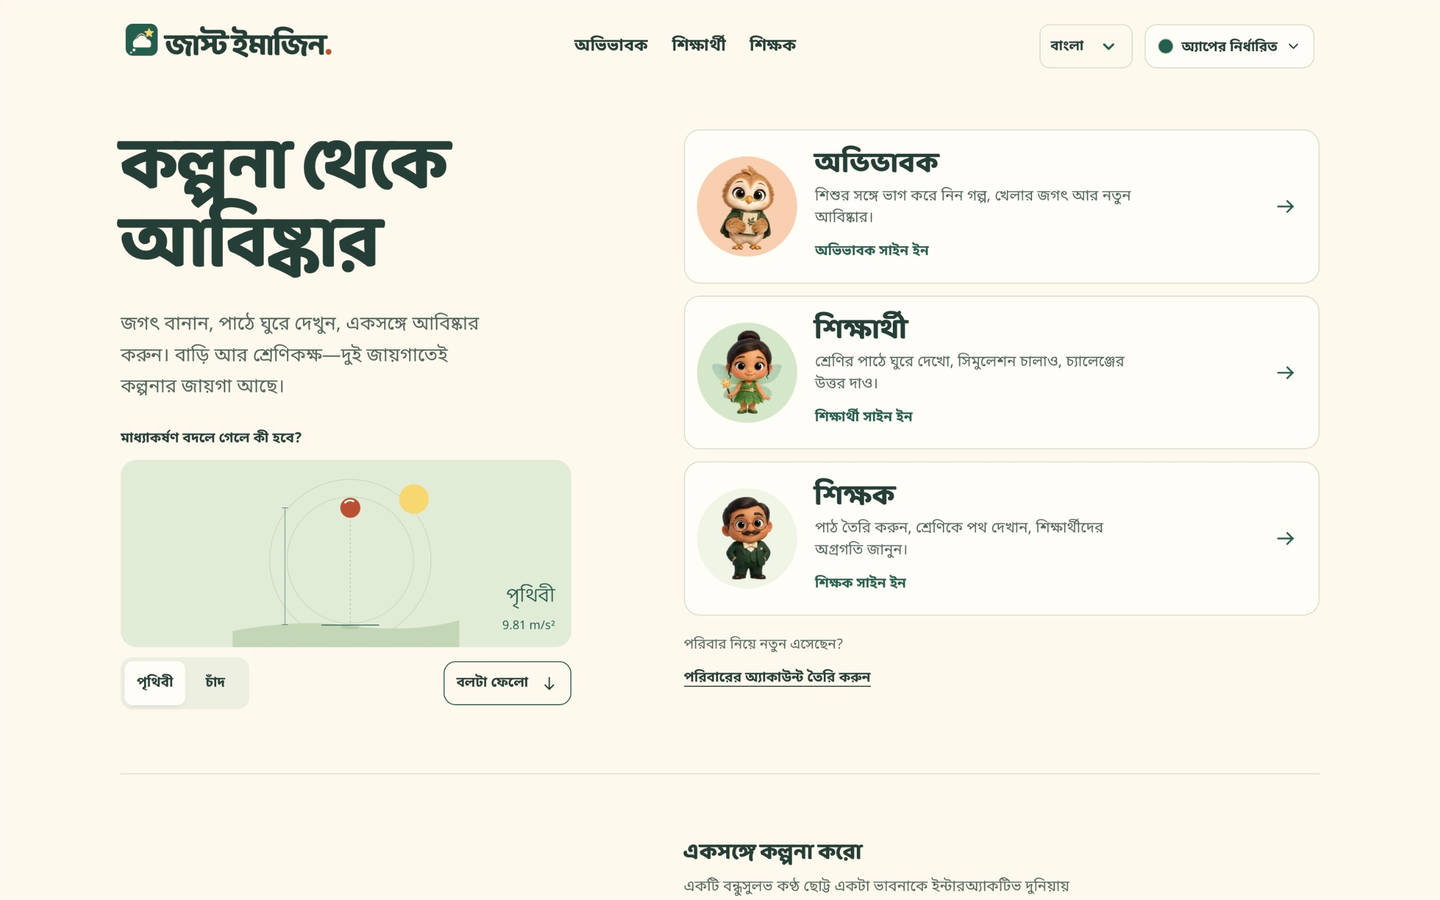
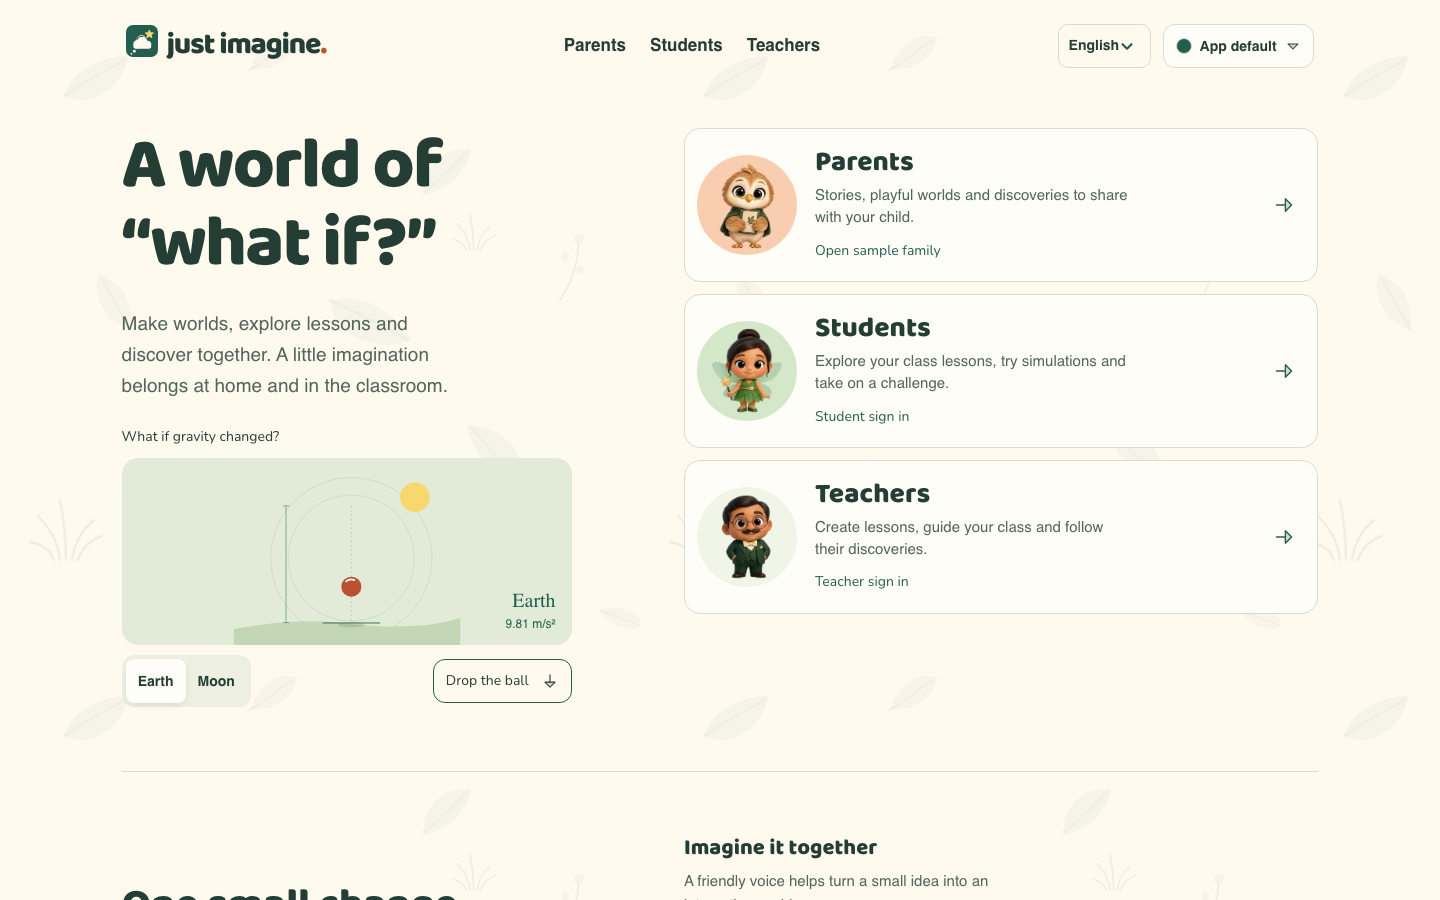
docs: fresh screenshots of the children's, school, student, operator and simulation screens
The README now shows the current Studio, Learn map and themes, four sample worlds in play, the teacher overview and lesson editor, the student home, lesson simulation, chemistry lab and leaderboard, three simulations from the new library and the operator console. PROVENANCE.md records how each image was captured and the two overlays hidden while capturing.

diff --git a/docs/images/PROVENANCE.md b/docs/images/PROVENANCE.md
@@ -1,15 +1,40 @@
 # Project screenshots
 
-Captured from the running app at `http://localhost:3300` on 18 October 2026 using native Safari inspection. These show the current frontend in Bangla, existing original project characters and a local demo explorer. No new world generation, child photograph, microphone capture or live model call was used to make these images.
+Captured on 18 October 2026 with Playwright (headless Chromium) from the app running locally at commit `2936152` or the commits just before it. No new world generation, child photograph, microphone capture or live model call was used to make these images.
 
-| File               | Route                            | CSS viewport | Theme                |
-| ------------------ | -------------------------------- | ------------ | -------------------- |
-| `landing.png`      | `/`                              | 1440 × 900   | Forest (app default) |
-| `learn.png`        | `/learn`                         | 1440 × 900   | Ocean                |
-| `studio.png`       | `/studio`                        | 1440 × 900   | Ocean                |
-| `laptop.png`       | `/studio`                        | 1440 × 900   | Ocean                |
-| `tablet.png`       | `/studio`                        | 1024 × 768   | Ocean                |
-| `learn-tablet.png` | `/learn`                         | 1024 × 768   | Ocean                |
-| `theme.png`        | `/learn` with theme choices open | 1440 × 900   | Ocean                |
+## How each set was captured
 
-Safari responsive mode provided the CSS viewports. Browser chrome and the responsive-mode surround were cropped away; images were resized to the stated viewport. App content was not composited, retouched or generated. `laptop.png` is the same capture as `studio.png`. Screenshots describe appearance, not production or model acceptance.
+**Children and worlds** came from the app in local preview mode (`NEXT_PUBLIC_FAKE=1`), which serves the authored sample worlds and a sample explorer, Ari. The Studio, Learn and theme images use the Bangla interface and the Ocean theme; the world images use English and the app default theme. The sample worlds' own titles and lines are written in English, so they stay English in the Bangla captures.
+
+**Schools and operators** came from an isolated local stack with test emulators, seeded with the demo school (`scripts/seed-schools.mjs`) and an emulator-only operator account. Student names are the seeded demo names. The interface is English.
+
+**Simulation library** images were rendered by the app's own simulation component (`apps/web/components/stem/SimView.tsx`) on a temporary local page used for visual review, at the default parameters with the clock at 42 % of the run.
+
+Two overlays were hidden during capture with an injected style rule and nothing else was changed: the local preview notice strip, and the Next.js development indicator. App content was not composited, retouched or generated.
+
+| File                      | Route                                    | CSS viewport | Language | Theme       |
+| ------------------------- | ---------------------------------------- | ------------ | -------- | ----------- |
+| `landing.png`             | `/`                                      | 1440 × 900   | English  | App default |
+| `learn.png`               | `/learn`                                 | 1440 × 900   | Bangla   | Ocean       |
+| `learn-tablet.png`        | `/learn`                                 | 1024 × 768   | Bangla   | Ocean       |
+| `theme.png`               | `/learn` with theme choices open         | 1440 × 900   | Bangla   | Ocean       |
+| `studio.png`              | `/studio`                                | 1440 × 900   | Bangla   | Ocean       |
+| `laptop.png`              | `/studio`, same capture as studio        | 1440 × 900   | Bangla   | Ocean       |
+| `tablet.png`              | `/studio`                                | 1024 × 768   | Bangla   | Ocean       |
+| `world-moon.png`          | `/studio`, Bouncy Ball on the Moon       | 1440 × 900   | English  | App default |
+| `world-pond.png`          | `/studio`, Duck and Stone at the Pond    | 1440 × 900   | English  | App default |
+| `world-cannon.png`        | `/studio`, Cannon and Cup                | 1440 × 900   | English  | App default |
+| `world-pegs.png`          | `/studio`, Peg Garden Probability        | 1440 × 900   | English  | App default |
+| `school-teacher.png`      | `/school`                                | 1440 × 900   | English  | App default |
+| `school-editor.png`       | `/school/lessons/<id>`                   | 1440 × 900   | English  | App default |
+| `school-results.png`      | `/school/results`                        | 1440 × 900   | English  | App default |
+| `student.png`             | `/study`                                 | 1440 × 900   | English  | App default |
+| `student-simulation.png`  | `/study/lessons/<id>`, step 2            | 1440 × 900   | English  | App default |
+| `student-lab.png`         | `/study/lab`                             | 1440 × 900   | English  | App default |
+| `student-leaderboard.png` | `/study/leaderboard`                     | 1440 × 900   | English  | App default |
+| `admin.png`               | `/admin`                                 | 1440 × 900   | English  | App default |
+| `sim-pendulum.png`        | simulation component, pendulum           | 1180 wide    | English  | App default |
+| `sim-titration.png`       | simulation component, titration          | 1180 wide    | Bangla   | App default |
+| `sim-riemann.png`         | simulation component, area under a curve | 1180 wide    | English  | App default |
+
+Screenshots describe appearance, not production or model acceptance.

diff --git a/README.md b/README.md
@@ -15,17 +15,53 @@ This is a working local prototype with test and browser evidence, **not a produc
 
 ## Project screenshots
 
-| Welcome                                               | Learn                                                 | Studio                                                            |
-| ----------------------------------------------------- | ----------------------------------------------------- | ----------------------------------------------------------------- |
-| ![Just Imagine welcome page](docs/images/landing.png) | ![Illustrated learning worlds](docs/images/learn.png) | ![Studio characters with one control row](docs/images/studio.png) |
+All images are captures of the running app; see [capture details](docs/images/PROVENANCE.md).
 
-Open the full Studio views: [laptop, 1440 × 900](docs/images/laptop.png) · [tablet, 1024 × 768](docs/images/tablet.png). These are actual app captures; [capture details](docs/images/PROVENANCE.md).
+### Children
 
-| Learn on tablet                                            | Dark theme choices                                           |
-| ---------------------------------------------------------- | ------------------------------------------------------------ |
-| ![Learning worlds on tablet](docs/images/learn-tablet.png) | ![Theme choices on a dark background](docs/images/theme.png) |
+| Welcome                                               | Learn                                                     | Studio                                                  |
+| ----------------------------------------------------- | --------------------------------------------------------- | ------------------------------------------------------- |
+| ![Just Imagine welcome page](docs/images/landing.png) | ![Illustrated learning island map](docs/images/learn.png) | ![Studio with a playable world](docs/images/studio.png) |
 
-Studio keeps its characters, voice and play controls together, with one Exit Studio action. Learn uses larger character-led worlds, readable progress and a compact points badge. Theme choices follow the surrounding light or dark surface.
+Open the full Studio views: [laptop, 1440 × 900](docs/images/laptop.png) · [tablet, 1024 × 768](docs/images/tablet.png).
+
+| Learn on tablet                                         | Theme choices                                            |
+| ------------------------------------------------------- | -------------------------------------------------------- |
+| ![Learning map on tablet](docs/images/learn-tablet.png) | ![Theme choices on the Learn map](docs/images/theme.png) |
+
+The Studio keeps the friend, voice and the world's own controls together with one Exit Studio action. Learn is an island map with a featured story harbour; theme choices follow the surrounding light or dark surface.
+
+### Worlds
+
+| Moon gravity                                           | Sink or float                                             |
+| ------------------------------------------------------ | --------------------------------------------------------- |
+| ![Bouncy Ball on the Moon](docs/images/world-moon.png) | ![Duck and Stone at the Pond](docs/images/world-pond.png) |
+| **Projectile**                                         | **Probability**                                           |
+| ![Cannon and Cup](docs/images/world-cannon.png)        | ![Peg Garden Probability](docs/images/world-pegs.png)     |
+
+### Schools
+
+| Teacher overview                                            | Lesson editor                                                               |
+| ----------------------------------------------------------- | --------------------------------------------------------------------------- |
+| ![Teacher console overview](docs/images/school-teacher.png) | ![Bilingual lesson editor](docs/images/school-editor.png)                   |
+| **Student home**                                            | **Lesson simulation**                                                       |
+| ![Student lessons home](docs/images/student.png)            | ![Motion graphs simulation in a lesson](docs/images/student-simulation.png) |
+| **Chemistry lab**                                           | **Leaderboard**                                                             |
+| ![Virtual chemistry bench](docs/images/student-lab.png)     | ![Class leaderboard](docs/images/student-leaderboard.png)                   |
+
+Teachers also see per-student results: [results](docs/images/school-results.png).
+
+### Simulation library
+
+| Pendulum energy                                             | Titration (Bangla)                                               | Area under a curve                                      |
+| ----------------------------------------------------------- | ---------------------------------------------------------------- | ------------------------------------------------------- |
+| ![Pendulum energy simulation](docs/images/sim-pendulum.png) | ![Titration simulation in Bangla](docs/images/sim-titration.png) | ![Riemann sums simulation](docs/images/sim-riemann.png) |
+
+Twenty-two simulations across physics, chemistry and mathematics, each with adjustable parameters, units, graphs and gradable tasks.
+
+### Operators
+
+![Operator console overview](docs/images/admin.png)
 
 ## Run locally
 
